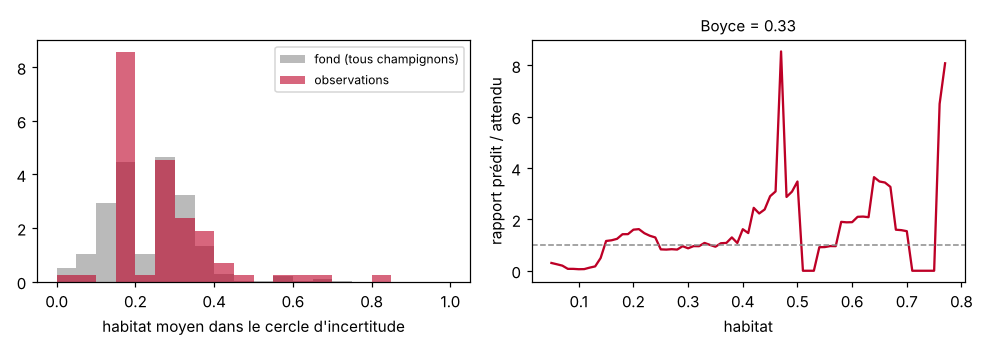
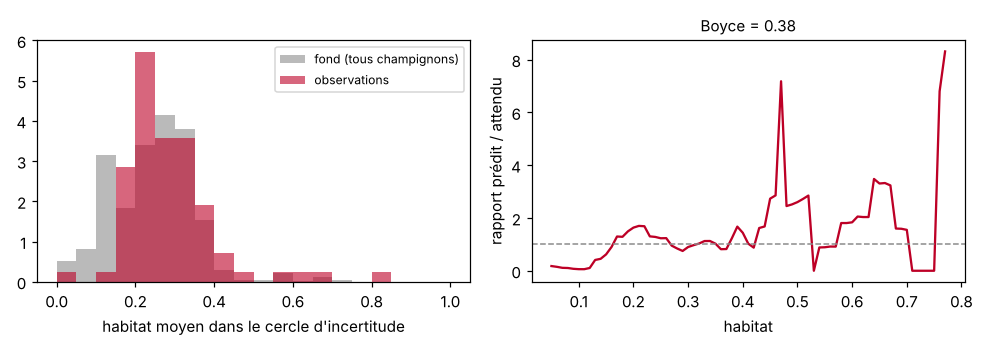
Aperçus d'habitat et calibrage avec BD Charm-50 et héritage du socle
Claude-Session: https://claude.ai/code/session_01HEL7sLH39tDzsfPS4Uce3D

diff --git a/reports/calibration/girolle/rapport.md b/reports/calibration/girolle/rapport.md
@@ -1,6 +1,6 @@
 # Calibrage – Girolle
 
-Généré le 31/10/2026. Taxons : Cantharellus cibarius.
+Généré le 05/11/2026. Taxons : Cantharellus cibarius.
 
 > **Rapport de diagnostic.** Les règles de `config/especes/girolle.yaml` ne sont pas modifiées automatiquement.
 
@@ -36,8 +36,8 @@ L'habitat est moyenné dans le cercle d'incertitude de chaque observation, puis 
 
 ![Habitat](habitat.png)
 
-- AUC observations / fond : 0.57 (faible)
-- Indice de Boyce continu : 0.33 (faible)
+- AUC observations / fond : 0.58 (faible)
+- Indice de Boyce continu : 0.38 (faible)
 
 ### Composition : essences
 
@@ -68,12 +68,12 @@ Part moyenne de chaque classe dans les cercles (observations et fond), et valeur
 
 |  | valeur_regle | part_observations | part_fond | ratio |
 |---|---|---|---|---|
-| detritique_mixte | 0.80 | 0.32 | 0.31 | 1.02 |
-| calcaire | 0.30 | 0.28 | 0.28 | 1.00 |
-| marno_calcaire | 0.40 | 0.17 | 0.18 | 0.95 |
-| alluvions_recentes | 0.30 | 0.10 | 0.13 | 0.80 |
-| siliceux | 1.00 | 0.12 | 0.07 | 1.80 |
-| indetermine | 0.60 | 0.00 | 0.03 | 0.06 |
+| detritique_mixte | 0.80 | 0.41 | 0.43 | 0.95 |
+| calcaire | 0.30 | 0.21 | 0.23 | 0.89 |
+| marno_calcaire | 0.40 | 0.20 | 0.18 | 1.09 |
+| alluvions_recentes | 0.30 | 0.06 | 0.07 | 0.76 |
+| siliceux | 1.00 | 0.12 | 0.06 | 1.91 |
+| indetermine | 0.60 | 0.01 | 0.02 | 0.74 |
 
 ## Météo à la date d'observation
 
@@ -93,4 +93,4 @@ Valeurs des indicateurs les jours d'observation (déciles 10 et 90, médiane), c
 
 ## Règles à revoir
 
-- Habitat : AUC 0.57, le modèle distingue mal les zones observées du fond.
+- Habitat : AUC 0.58, le modèle distingue mal les zones observées du fond.

diff --git a/reports/calibration/cepe/rapport.md b/reports/calibration/cepe/rapport.md
@@ -1,6 +1,6 @@
 # Calibrage – Cèpe
 
-Généré le 31/10/2026. Taxons : Boletus edulis, Boletus pinophilus, Boletus aereus, Boletus reticulatus.
+Généré le 05/11/2026. Taxons : Boletus edulis, Boletus pinophilus, Boletus aereus, Boletus reticulatus.
 
 > **Rapport de diagnostic.** Les règles de `config/especes/cepe.yaml` ne sont pas modifiées automatiquement.
 
@@ -37,7 +37,7 @@ L'habitat est moyenné dans le cercle d'incertitude de chaque observation, puis 
 ![Habitat](habitat.png)
 
 - AUC observations / fond : 0.56 (faible)
-- Indice de Boyce continu : 0.71 (correct)
+- Indice de Boyce continu : 0.67 (correct)
 
 ### Composition : essences
 
@@ -68,12 +68,12 @@ Part moyenne de chaque classe dans les cercles (observations et fond), et valeur
 
 |  | valeur_regle | part_observations | part_fond | ratio |
 |---|---|---|---|---|
-| detritique_mixte | 1.00 | 0.45 | 0.31 | 1.43 |
-| calcaire | 0.60 | 0.21 | 0.28 | 0.76 |
-| marno_calcaire | 0.70 | 0.17 | 0.18 | 0.92 |
-| alluvions_recentes | 0.40 | 0.09 | 0.13 | 0.66 |
-| siliceux | 1.00 | 0.07 | 0.07 | 1.10 |
-| indetermine | 0.70 | 0.01 | 0.03 | 0.48 |
+| detritique_mixte | 1.00 | 0.53 | 0.43 | 1.23 |
+| calcaire | 0.60 | 0.16 | 0.23 | 0.66 |
+| marno_calcaire | 0.70 | 0.19 | 0.18 | 1.02 |
+| alluvions_recentes | 0.40 | 0.05 | 0.07 | 0.62 |
+| siliceux | 1.00 | 0.07 | 0.06 | 1.12 |
+| indetermine | 0.70 | 0.01 | 0.02 | 0.78 |
 
 ## Météo à la date d'observation
 

diff --git a/reports/calibration/trompette/rapport.md b/reports/calibration/trompette/rapport.md
@@ -1,6 +1,6 @@
 # Calibrage – Trompette de la mort
 
-Généré le 31/10/2026. Taxons : Craterellus cornucopioides.
+Généré le 05/11/2026. Taxons : Craterellus cornucopioides.
 
 > **Rapport de diagnostic.** Les règles de `config/especes/trompette.yaml` ne sont pas modifiées automatiquement.
 
@@ -37,7 +37,7 @@ L'habitat est moyenné dans le cercle d'incertitude de chaque observation, puis 
 ![Habitat](habitat.png)
 
 - AUC observations / fond : 0.54 (faible)
-- Indice de Boyce continu : -0.25 (faible)
+- Indice de Boyce continu : -0.23 (faible)
 
 ### Composition : essences
 
@@ -68,12 +68,12 @@ Part moyenne de chaque classe dans les cercles (observations et fond), et valeur
 
 |  | valeur_regle | part_observations | part_fond | ratio |
 |---|---|---|---|---|
-| detritique_mixte | 0.80 | 0.35 | 0.31 | 1.13 |
-| calcaire | 1.00 | 0.32 | 0.28 | 1.14 |
-| marno_calcaire | 1.00 | 0.14 | 0.18 | 0.77 |
-| alluvions_recentes | 0.60 | 0.14 | 0.13 | 1.08 |
-| siliceux | 0.60 | 0.03 | 0.07 | 0.46 |
-| indetermine | 0.70 | 0.01 | 0.03 | 0.50 |
+| detritique_mixte | 0.80 | 0.47 | 0.43 | 1.09 |
+| calcaire | 1.00 | 0.23 | 0.23 | 0.99 |
+| marno_calcaire | 1.00 | 0.19 | 0.18 | 1.02 |
+| alluvions_recentes | 0.60 | 0.06 | 0.07 | 0.84 |
+| siliceux | 0.60 | 0.03 | 0.06 | 0.42 |
+| indetermine | 0.70 | 0.03 | 0.02 | 1.35 |
 
 ## Météo à la date d'observation
 

diff --git a/reports/calibration/pied_de_mouton/rapport.md b/reports/calibration/pied_de_mouton/rapport.md
@@ -1,6 +1,6 @@
 # Calibrage – Pied-de-mouton
 
-Généré le 31/10/2026. Taxons : Hydnum repandum.
+Généré le 05/11/2026. Taxons : Hydnum repandum.
 
 > **Rapport de diagnostic.** Les règles de `config/especes/pied_de_mouton.yaml` ne sont pas modifiées automatiquement.
 
@@ -37,7 +37,7 @@ L'habitat est moyenné dans le cercle d'incertitude de chaque observation, puis 
 ![Habitat](habitat.png)
 
 - AUC observations / fond : 0.53 (faible)
-- Indice de Boyce continu : 0.20 (faible)
+- Indice de Boyce continu : 0.17 (faible)
 
 ### Composition : essences
 
@@ -68,12 +68,12 @@ Part moyenne de chaque classe dans les cercles (observations et fond), et valeur
 
 |  | valeur_regle | part_observations | part_fond | ratio |
 |---|---|---|---|---|
-| detritique_mixte | 0.90 | 0.42 | 0.31 | 1.35 |
-| calcaire | 1.00 | 0.24 | 0.28 | 0.84 |
-| marno_calcaire | 1.00 | 0.18 | 0.18 | 1.03 |
-| alluvions_recentes | 0.60 | 0.10 | 0.13 | 0.75 |
-| siliceux | 0.80 | 0.04 | 0.07 | 0.56 |
-| indetermine | 0.80 | 0.02 | 0.03 | 0.76 |
+| detritique_mixte | 0.90 | 0.52 | 0.43 | 1.21 |
+| calcaire | 1.00 | 0.18 | 0.23 | 0.76 |
+| marno_calcaire | 1.00 | 0.19 | 0.18 | 1.06 |
+| alluvions_recentes | 0.60 | 0.06 | 0.07 | 0.79 |
+| siliceux | 0.80 | 0.04 | 0.06 | 0.58 |
+| indetermine | 0.80 | 0.02 | 0.02 | 0.86 |
 
 ## Météo à la date d'observation
 

diff --git a/reports/calibration/morille/rapport.md b/reports/calibration/morille/rapport.md
@@ -1,6 +1,6 @@
 # Calibrage – Morille
 
-Généré le 31/10/2026. Taxons : Morchella.
+Généré le 05/11/2026. Taxons : Morchella.
 
 > **Rapport de diagnostic.** Les règles de `config/especes/morille.yaml` ne sont pas modifiées automatiquement.
 
@@ -37,7 +37,7 @@ L'habitat est moyenné dans le cercle d'incertitude de chaque observation, puis 
 ![Habitat](habitat.png)
 
 - AUC observations / fond : 0.51 (faible)
-- Indice de Boyce continu : 0.30 (faible)
+- Indice de Boyce continu : 0.24 (faible)
 
 ### Composition : essences
 
@@ -68,12 +68,12 @@ Part moyenne de chaque classe dans les cercles (observations et fond), et valeur
 
 |  | valeur_regle | part_observations | part_fond | ratio |
 |---|---|---|---|---|
-| detritique_mixte | 0.80 | 0.34 | 0.31 | 1.08 |
-| calcaire | 0.90 | 0.35 | 0.28 | 1.22 |
-| marno_calcaire | 0.90 | 0.15 | 0.18 | 0.85 |
-| alluvions_recentes | 1.00 | 0.11 | 0.13 | 0.83 |
-| siliceux | 0.50 | 0.00 | 0.07 | 0.06 |
-| indetermine | 0.60 | 0.05 | 0.03 | 1.92 |
+| detritique_mixte | 0.80 | 0.42 | 0.43 | 0.98 |
+| calcaire | 0.90 | 0.29 | 0.23 | 1.23 |
+| marno_calcaire | 0.90 | 0.20 | 0.18 | 1.12 |
+| alluvions_recentes | 1.00 | 0.05 | 0.07 | 0.70 |
+| siliceux | 0.50 | 0.00 | 0.06 | 0.07 |
+| indetermine | 0.60 | 0.03 | 0.02 | 1.61 |
 
 ## Météo à la date d'observation
 

diff --git a/reports/calibration/README.md b/reports/calibration/README.md
@@ -1,13 +1,13 @@
 # Rapports de calibrage
 
-Généré le 31/10/2026.
+Généré le 05/11/2026.
 
 | Espèce | Obs. | Datées | Localisées | Hors saison | AUC habitat | Boyce | AUC météo | Alertes |
 |---|---:|---:|---:|---:|---:|---:|---:|---:|
-| [Cèpe](cepe/rapport.md) | 187 | 187 | 180 | 3 % | 0.56 | 0.71 | 0.60 | 2 |
-| [Girolle](girolle/rapport.md) | 91 | 91 | 84 | 3 % | 0.57 | 0.33 | 0.61 | 1 |
-| [Morille](morille/rapport.md) | 40 | 40 | 31 | 0 % | 0.51 | 0.30 | 0.59 | 2 |
-| [Pied-de-mouton](pied_de_mouton/rapport.md) | 58 | 58 | 52 | 9 % | 0.53 | 0.20 | 0.60 | 2 |
-| [Trompette de la mort](trompette/rapport.md) | 69 | 69 | 68 | 6 % | 0.54 | -0.25 | 0.68 | 1 |
+| [Cèpe](cepe/rapport.md) | 187 | 187 | 180 | 3 % | 0.56 | 0.67 | 0.60 | 2 |
+| [Girolle](girolle/rapport.md) | 91 | 91 | 84 | 3 % | 0.58 | 0.38 | 0.61 | 1 |
+| [Morille](morille/rapport.md) | 40 | 40 | 31 | 0 % | 0.51 | 0.24 | 0.59 | 2 |
+| [Pied-de-mouton](pied_de_mouton/rapport.md) | 58 | 58 | 52 | 9 % | 0.53 | 0.17 | 0.60 | 2 |
+| [Trompette de la mort](trompette/rapport.md) | 69 | 69 | 68 | 6 % | 0.54 | -0.23 | 0.68 | 1 |
 
 Seuils d'alerte : effectif < 20 (indicatif), plus de 10 % d'observations hors saison, AUC < 0,6, classe sur-représentée × 1,5 mais notée ≤ 0,3 ou sous-représentée × 0,5 mais notée ≥ 0,8.
